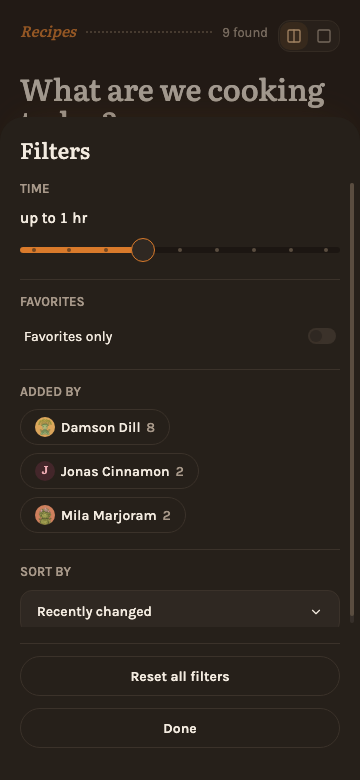
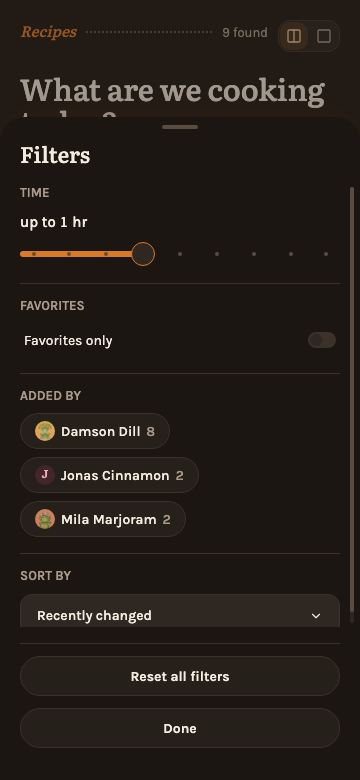
feat(frontend): close a sheet by pulling its handle down
The filter panel becomes a full sheet on phones: it gets the handle and the sheets' background, so it reads as lying in front.

diff --git a/frontend/src/lib/components/ui/SheetHandle.svelte b/frontend/src/lib/components/ui/SheetHandle.svelte
@@ -1,0 +1,97 @@
+<script lang="ts">
+	import { Dialog } from 'bits-ui';
+	import { prefersReducedMotion } from 'svelte/motion';
+
+	// The handle at the top of a phone's bottom sheet: a tap closes the sheet,
+	// and so does pulling it down. The sheet follows the finger and closes
+	// when let go a quarter of its height down or flicked; short of that it
+	// springs back. The sheet is the handle's dialog, so callers pass nothing
+	// but how to close it.
+	let {
+		label,
+		onclose,
+		class: className = ''
+	}: {
+		/** Accessible name of the handle. */
+		label: string;
+		onclose: () => void;
+		class?: string;
+	} = $props();
+
+	/** Pixels a finger may wander before a press counts as a pull, not a tap. */
+	const SLOP = 4;
+	/** Downward speed, in px/ms, that closes the sheet however short the pull. */
+	const FLICK = 0.5;
+
+	let sheet: HTMLElement | null = null;
+	let startY = 0;
+	let lastY = 0;
+	let lastTime = 0;
+	let speed = 0;
+	let pulled = false;
+
+	function onpointerdown(event: PointerEvent) {
+		if (event.button !== 0) return;
+		sheet = (event.currentTarget as HTMLElement).closest('[role="dialog"]');
+		if (!sheet) return;
+		(event.currentTarget as HTMLElement).setPointerCapture(event.pointerId);
+		startY = lastY = event.clientY;
+		lastTime = event.timeStamp;
+		speed = 0;
+		pulled = false;
+		sheet.style.transition = 'none';
+	}
+
+	function onpointermove(event: PointerEvent) {
+		if (!sheet) return;
+		const dy = Math.max(0, event.clientY - startY);
+		if (dy > SLOP) pulled = true;
+		const dt = event.timeStamp - lastTime;
+		if (dt > 0) speed = (event.clientY - lastY) / dt;
+		lastY = event.clientY;
+		lastTime = event.timeStamp;
+		sheet.style.transform = `translateY(${dy}px)`;
+	}
+
+	function onpointerup() {
+		if (!sheet) return;
+		const node = sheet;
+		sheet = null;
+		// The click that follows a pull comes before this; a later one is a tap.
+		setTimeout(() => (pulled = false));
+		const dy = Math.max(0, lastY - startY);
+		if (pulled && (dy > node.offsetHeight / 4 || speed > FLICK)) {
+			// The sheet's own outro carries on from where the finger left it.
+			node.style.transition = '';
+			onclose();
+			return;
+		}
+		node.style.transition = prefersReducedMotion.current ? '' : 'transform 200ms ease-out';
+		node.style.transform = '';
+		node.addEventListener('transitionend', () => (node.style.transition = ''), { once: true });
+	}
+
+	// A pull ends in a click on the handle; only a tap may close through it.
+	function onclickcapture(event: MouseEvent) {
+		if (!pulled) return;
+		event.preventDefault();
+		event.stopImmediatePropagation();
+	}
+</script>
+
+<Dialog.Close>
+	{#snippet child({ props })}
+		<button
+			{...props}
+			aria-label={label}
+			class="flex shrink-0 touch-none justify-center pt-2 pb-3 focus-visible:outline-2 focus-visible:-outline-offset-2 focus-visible:outline-primary {className}"
+			{onpointerdown}
+			{onpointermove}
+			{onpointerup}
+			onpointercancel={onpointerup}
+			{onclickcapture}
+		>
+			<span class="h-1 w-9 rounded-pill bg-handle" aria-hidden="true"></span>
+		</button>
+	{/snippet}
+</Dialog.Close>

diff --git a/frontend/e2e/mobile-nav.test.ts b/frontend/e2e/mobile-nav.test.ts
@@ -262,6 +262,52 @@ test('the page stays put under an open sheet', async ({ page }) => {
 	await expect.poll(() => page.evaluate(() => window.scrollY)).toBeGreaterThan(0);
 });
 
+/** Presses the dialog's handle and moves `dy` pixels down before letting go. */
+async function pullHandle(page: Page, dy: number) {
+	const dialog = page.getByRole('dialog');
+	// Measured while the sheet still rises, the handle is lower than the press lands.
+	await expect.poll(() => dialog.evaluate((el) => el.getAnimations().length)).toBe(0);
+	const handle = dialog.getByRole('button', { name: 'Close' });
+	const box = (await handle.boundingBox())!;
+	const x = box.x + box.width / 2;
+	const y = box.y + box.height / 2;
+	await page.mouse.move(x, y);
+	await page.mouse.down();
+	await page.mouse.move(x, y + dy, { steps: 10 });
+	await page.mouse.up();
+}
+
+test('a sheet closes when its handle is pulled down', async ({ page }) => {
+	await login(page);
+	await expect(page.getByRole('heading', { name: 'What are we cooking today?' })).toBeVisible();
+	await bottomNav(page).getByRole('button', { name: 'You' }).click();
+	const sheet = page.getByRole('dialog', { name: 'admin' });
+	await expect(sheet).toBeVisible();
+
+	// A short pull springs back, and the click it ends in does not close.
+	await pullHandle(page, 20);
+	await page.waitForTimeout(300);
+	await expect(sheet).toBeVisible();
+	await expect(sheet).not.toHaveAttribute('style', /translateY\(\d/);
+
+	await pullHandle(page, 300);
+	await expect(page.getByRole('dialog')).toHaveCount(0);
+
+	// A tap still closes.
+	await bottomNav(page).getByRole('button', { name: 'You' }).click();
+	await expect(sheet).toBeVisible();
+	await sheet.getByRole('button', { name: 'Close' }).click();
+	await expect(page.getByRole('dialog')).toHaveCount(0);
+});
+
+test('the filter sheet closes when its handle is pulled down', async ({ page }) => {
+	await login(page);
+	await page.getByRole('button', { name: 'Filters' }).click();
+	await expect(page.getByRole('dialog', { name: 'Filters' })).toBeVisible();
+	await pullHandle(page, 300);
+	await expect(page.getByRole('dialog')).toHaveCount(0);
+});
+
 test('no bar on a page that does not exist', async ({ page }) => {
 	await login(page);
 	await page.goto('/gibt-es-nicht');

diff --git a/frontend/src/lib/components/recipe/FilterPanel.svelte b/frontend/src/lib/components/recipe/FilterPanel.svelte
@@ -10,6 +10,7 @@
 	import TagChip from '#lib/components/ui/TagChip.svelte';
 	import Slider from '#lib/components/ui/Slider.svelte';
 	import Switch from '#lib/components/ui/Switch.svelte';
+	import SheetHandle from '#lib/components/ui/SheetHandle.svelte';
 	import { formatMinutes } from '#lib/recipe/format.js';
 	import { isSort, type Sort } from '#lib/recipe/query.js';
 	import type { Author } from '#lib/api/recipes.js';
@@ -228,9 +229,16 @@
 					     which one a flick will move. -->
 					<div
 						{...props}
-						class="fixed top-1/2 left-1/2 z-50 flex max-h-[min(70dvh,32rem)] w-[min(24rem,calc(100vw-2.5rem))] -translate-x-1/2 -translate-y-1/2 flex-col rounded-3xl bg-surface p-6 shadow-dialog max-md:inset-x-0 max-md:top-auto max-md:bottom-0 max-md:max-h-[85dvh] max-md:w-full max-md:translate-x-0 max-md:translate-y-0 max-md:rounded-b-none max-md:p-5 max-md:pb-8 max-md:shadow-sheet"
+						class="fixed top-1/2 left-1/2 z-50 flex max-h-[min(70dvh,32rem)] w-[min(24rem,calc(100vw-2.5rem))] -translate-x-1/2 -translate-y-1/2 flex-col rounded-3xl bg-surface p-6 shadow-dialog max-md:inset-x-0 max-md:top-auto max-md:bottom-0 max-md:max-h-[85dvh] max-md:w-full max-md:translate-x-0 max-md:translate-y-0 max-md:rounded-b-none max-md:bg-background max-md:p-5 max-md:pt-0 max-md:pb-8 max-md:shadow-sheet"
 						transition:panelTransition
 					>
+						<!-- On phones the panel is a sheet, so it carries the sheets'
+						     handle; the desktop's dialog closes outside or on Done. -->
+						<SheetHandle
+							label={m.common_close()}
+							onclose={() => (open = false)}
+							class="-mx-5 md:hidden"
+						/>
 						<Dialog.Title class="shrink-0 font-display text-heading font-medium">
 							{m.overview_filter()}
 						</Dialog.Title>

diff --git a/frontend/src/lib/components/ui/BottomSheet.svelte b/frontend/src/lib/components/ui/BottomSheet.svelte
@@ -3,10 +3,12 @@
 	import type { Snippet } from 'svelte';
 	import { prefersReducedMotion } from 'svelte/motion';
 	import { fade, fly } from 'svelte/transition';
+	import SheetHandle from './SheetHandle.svelte';
 
 	// Shared Overlay + Content wrapper for the phone's bottom sheets (the
 	// contents, You, one person), so the phone has one kind of sheet: a
-	// rounded panel rising from the bottom edge, its handle the close button.
+	// rounded panel rising from the bottom edge, its handle closing it on a
+	// tap or a pull.
 	// The caller renders the title and the scrolling body inside it.
 	let {
 		open = $bindable(false),
@@ -50,12 +52,7 @@
 						class="fixed inset-x-0 bottom-0 z-50 mx-auto flex max-h-[80dvh] w-full max-w-[640px] flex-col rounded-t-3xl bg-background shadow-sheet outline-none"
 						transition:fly={{ duration, y: 200 }}
 					>
-						<Dialog.Close
-							aria-label={closeLabel}
-							class="flex w-full shrink-0 justify-center pt-2 pb-3 focus-visible:outline-2 focus-visible:-outline-offset-2 focus-visible:outline-primary"
-						>
-							<span class="h-1 w-9 rounded-pill bg-handle" aria-hidden="true"></span>
-						</Dialog.Close>
+						<SheetHandle label={closeLabel} onclose={() => (open = false)} />
 						{@render children()}
 					</div>
 				{/if}
